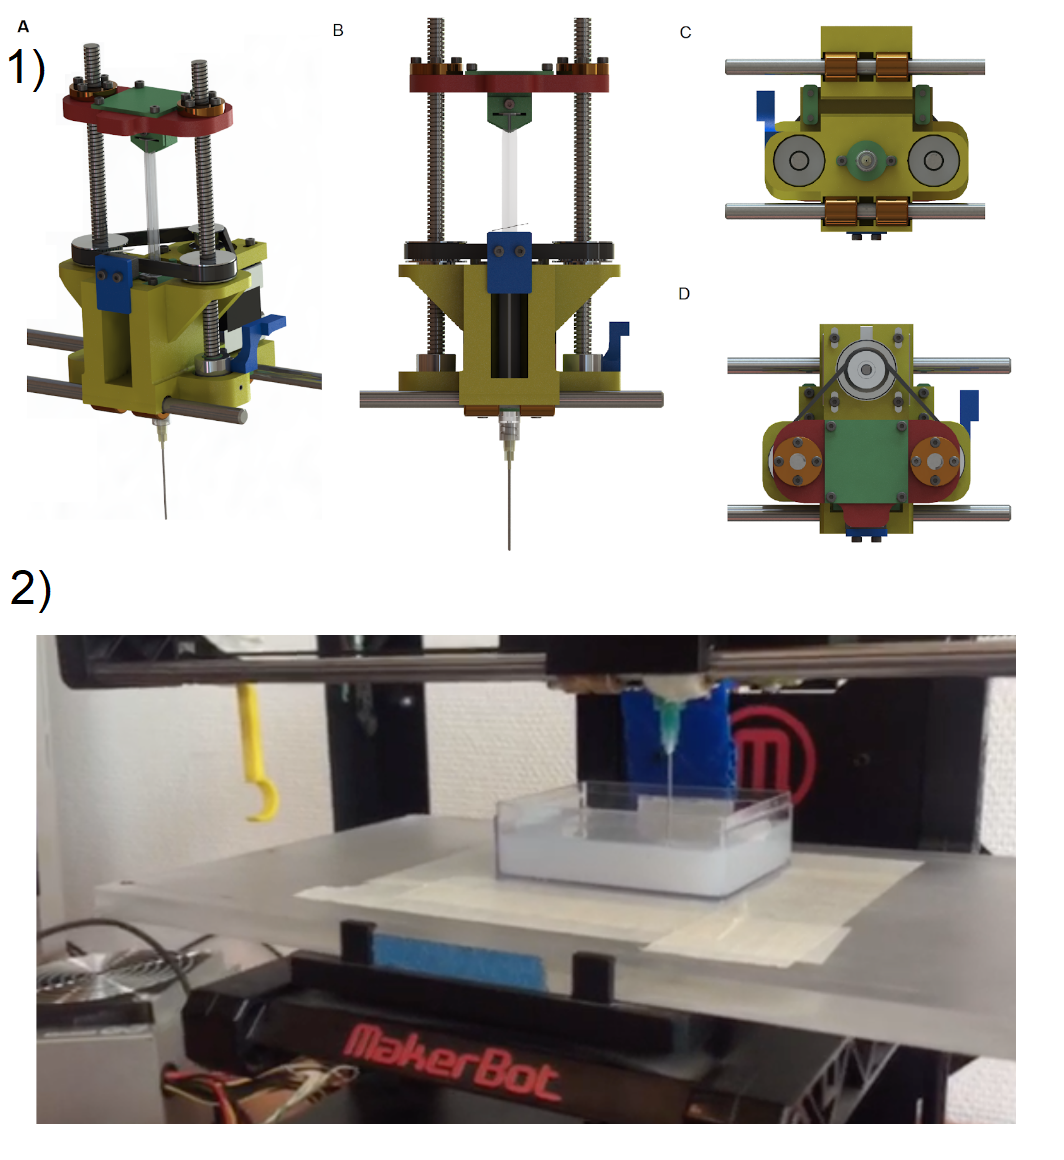
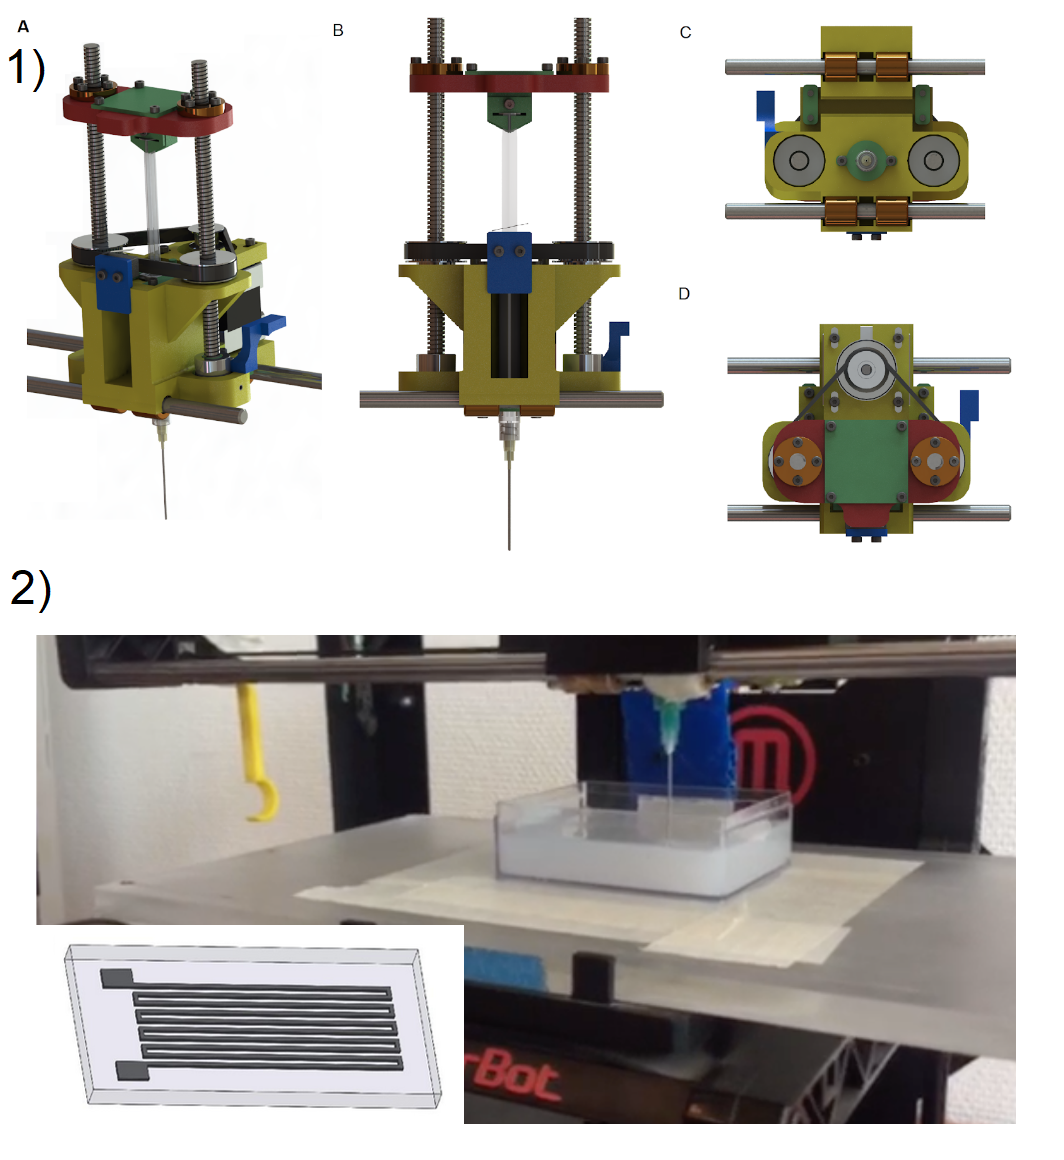
updating portfolio

Changed region(s): [[0.031, 0.7759, 0.4342, 0.9931]]

diff --git a/_pages/portfolio.md b/_pages/portfolio.md
@@ -1,88 +1,96 @@
 ---
+
 layout: archive
 title: "Projects"
 permalink: /portfolio/
 author_profile: true
+
 ---
 
-Last update: December, 2022
+Last update: September, 2024
+
+This is a compilation of projects that I think are worth to mention. Some of the links will take you to other pages in this site, while others will lead you to Github, Grabcad or Instagram.
 
 # Personal projects
 
-Projects that i have been developing in my house at my free time. 
+Projects that I have been developing in my house at my free time. 
 
-1. [N20 Robot project](https://github.com/jkugalde/Pochitabot)
-2. [N20 Servo Module](https://github.com/jkugalde/N20-Servo-Module) 
-3. [3DP SCARA Arm](https://github.com/jkugalde/SCARA-3DP)
-4. [T-Slot Workbench](https://jkugalde.github.io/portfolio/tslottable/)
-5. [Anet A8 upgrade](https://jkugalde.github.io/portfolio/aneta8upgrade/)
-6. [Original FDM 3D printer](https://jkugalde.github.io/portfolio/jkprinter/)
-7. [3DP vise](https://jkugalde.github.io/portfolio/3dp-vise/)
-8. [3DP lamp](https://jkugalde.github.io/portfolio/3dplamp/)
+### 1. [N20 Quadruped robot project](https://github.com/jkugalde/Pochitabot)
 
-<img src="/images/personal.png" width="750">
+<img src ="https://i.imgur.com/XjRepFi.jpeg" width="600">
 
-# Projects developed at the Robotics Lab
+### 2. [3DP SCARA Arm](https://github.com/jkugalde/SCARA-3DP)
 
-These are the main projects in which i work during my time as R.A in the robotics lab of the mechanical engineering department at the University of Chile.
+<img src ="https://i.imgur.com/l6rDe6A.png" width="400">
 
-1. [Closed loop soft robot worm](https://github.com/jkugalde/SoftWorm)
-2. [Open loop soft robot worm](https://www.researchgate.net/publication/311101877_Design_Fabrication_and_Control_of_a_Multi-Material-Multi-Actuator_Soft_Robot_Inspired_by_Burrowing_Worms)
-3. [Soft modular robots](https://jkugalde.github.io/portfolio/softmodularrobots/)
-4. [Soft sensor printer](https://jkugalde.github.io/portfolio/softprinter/)
+### 3. [Anet A8 Marlinification](https://jkugalde.github.io/portfolio/aneta8upgrade/)
 
-<img src="/images/medlab.png" width="750">
+<img src ="https://i.imgur.com/2vLRb1v.png" width="550">
+
+# Soft robotics at the University of Chile
+
+These are the main projects in which I work, mostly during my time as R.A in the robotics lab in mechanical engineering department at the University of Chile. 
+
+### 1. [Soft robot worm](https://github.com/jkugalde/SoftWorm)
+
+<img src ="https://i.imgur.com/lJXCLit.png" width="550">
+
+### 2. [Soft modular robots](https://jkugalde.github.io/portfolio/softmodularrobots/)
+
+<img src ="https://i.imgur.com/KftGXuz.png)" width="350">
+
+### 3. [Liquid on liquid printer](https://jkugalde.github.io/portfolio/softprinter/)
+
+<img src ="https://i.imgur.com/NDDGl3u.png)" width="500">
 
 # Projects developed at Fablab U de Chile
 
-Projects that i have led at the Fablab U de Chile.
+(THIS SECTION IS IN CONSTRUCTION)
 
-1. [Biomixer](https://jkugalde.github.io/portfolio/biomixer/)
-2. [Rotocasting machine](https://jkugalde.github.io/portfolio/rotocaster/) 
-3. [Vacuum former](https://jkugalde.github.io/portfolio/vacuum-former/) 
-4. [B.AMBU, an emergency mechanical ventilator](https://jkugalde.github.io/portfolio/bambu/)
-5. [SILC (short impact load cell)](https://jkugalde.github.io/portfolio/silc/)
-6. [Biomonitor](https://jkugalde.github.io/portfolio/biomonitor/)
-7. [Video Laringoscope](https://jkugalde.github.io/portfolio/laringoscope/)
-8. [Paste Extruder](https://jkugalde.github.io/portfolio/pastextruder/)
-9. [Pellet extruder](https://jkugalde.github.io/portfolio/pellet/)
-10. [Rat restrainer](https://jkugalde.github.io/portfolio/ratres/)
-11. [Injector](https://jkugalde.github.io/portfolio/injector/)
+### 1. [Biomixer](https://jkugalde.github.io/portfolio/biomixer/)
+### 2. [Rotocasting machine](https://jkugalde.github.io/portfolio/rotocaster/) 
+### 3. [Vacuum former](https://jkugalde.github.io/portfolio/vacuum-former/) 
+### 4. [B.AMBU, an emergency mechanical ventilator](https://jkugalde.github.io/portfolio/bambu/)
+### 5. [SILC-a, rock impact testing machine](https://jkugalde.github.io/portfolio/silc/)
+### 6. [Biomonitor](https://jkugalde.github.io/portfolio/biomonitor/)
+### 7. [Video laringoscope](https://jkugalde.github.io/portfolio/laringoscope/)
+### 8. [Paste extruder](https://jkugalde.github.io/portfolio/pastextruder/)
+### 9. [Scaffolding for bone regenerating  implant](https://jkugalde.github.io/portfolio/pellet/)
+### 10. [Moulded parts for museum installation](https://jkugalde.github.io/portfolio/pellet/)
+
+
 12. [3DP Flow sensor](https://jkugalde.github.io/portfolio/flowi/)
 
-<img src="/images/fab.png" width="750">
+##### Minor devices
 
-Minor devices
+### 1. [Peristaltic pumps](https://jkugalde.github.io/portfolio/ppstep/) 
+### 2. [Powder dispensers](https://jkugalde.github.io/portfolio/powderdispenser/)
+### 3. [3DP electroacoustic levitator](https://jkugalde.github.io/portfolio/levitator/)
 
-1. [Peristaltic pump (stepper)](https://jkugalde.github.io/portfolio/ppstep/) 
-2. [Peristaltic pump (DC)](https://jkugalde.github.io/portfolio/ppdc/) 
-3. [Powder dispenser](https://jkugalde.github.io/portfolio/powderdispenser/)
 
-<img src="/images/devs.png" width="750">
-
-# Collaborations and supporting
-
-Documented projects i supported.
-
-1. [Metarpillar](https://www.sciencedirect.com/science/article/pii/S0264127521008406)
-2. [Soft modular robotics cubes](https://www.researchgate.net/publication/312121627_Soft_Modular_Robotic_Cubes_Toward_Replicating_Morphogenetic_Movements_of_the_Embryo)
-3. [3DP electroacoustic levitator](https://jkugalde.github.io/portfolio/levitator/)
-4. [Liquid on liquid printer](https://jkugalde.github.io/files/liquidprint.pdf)
-
-<img src="/images/colsup.png" width="750">
 
 # Freelance projects
 
-1. [SBF Robot cell](https://jkugalde.github.io/portfolio/sbf/)
-2. [Peristaltic pump for glue](https://jkugalde.github.io/portfolio/pglue/)
-3. [Automatic dispenser for pruning paste](https://jkugalde.github.io/portfolio/prune/)
+(THIS SECTION IS IN CONSTRUCTION)
 
-<img src="/images/frel.png" width="750">
+### 1. [SBF Robot cell](https://jkugalde.github.io/portfolio/sbf/)
+### 2. [Peristaltic pump for glue](https://jkugalde.github.io/portfolio/pglue/)
+### 3. [Automatic dispenser for pruning paste](https://jkugalde.github.io/portfolio/prune/)
 
-# Art
+# Digital craftmanship
 
-1. [Guitar vase](https://jkugalde.github.io/portfolio/vaseg/)
-2. [3DP Guitar capo](https://jkugalde.github.io/portfolio/3dpcapo/)
-3. [Kitsune mask](https://jkugalde.github.io/portfolio/mask/)
+### 1. [Guitar vase](https://jkugalde.github.io/portfolio/vaseg/)
 
-<img src="/images/art.png" width="750">
+<img src ="https://i.imgur.com/C1g62Bw.png" width="400">
+
+### 2. [3DP Guitar capo](https://jkugalde.github.io/portfolio/3dpcapo/)
+
+<img src ="https://i.imgur.com/TpreHJI.png" width="400">
+
+### 3. [Kitsune mask](https://jkugalde.github.io/portfolio/mask/)
+
+<img src ="https://i.imgur.com/nRH6E03.png" width="400">
+
+### 4. [Maracas llaneras](https://www.thingiverse.com/thing:6457595)
+
+<img src ="https://i.imgur.com/oKGwwFS.png" width="400">

diff --git a/_portfolio/quad.md b/_portfolio/quad.md
@@ -1,0 +1,42 @@
+---
+layout: archive
+title: "N20 quadurped robot project"
+excerpt: ""
+collection: portfolio
+author_profile: true
+---
+
+This project had several stages.
+
+### Jumping robot
+
+First, I wanted to make a cheap, small and "simple" legged robot. I had these N20 motors, which are pretty small, so the first step was to look for small sensors. I broke down some plastic servos to use their potentiometers. Then, I 3D printed [this](https://www.youtube.com/shorts/6vT5c4_hpZE) little guy.
+
+### Modular servo actuator
+
+As breaking down servo motors was not a good idea, I decided to use a small angle sensor (CJMCU-103). Instead of making a full body to integrate the motors, I decided to create a [module](https://github.com/jkugalde/N20-Servo-Module), which then I applied in another [jumping robot](https://github.com/jkugalde/Jumping-robot).
+
+### Modular series elastic actuator I
+
+I knew that for a smooth walking certain compliancy is needed, so I put a torsional spring at the output of the shaft in the module. Also, I included another angle sensor (so there is one in the input and another in the ouput, because if the spring is characterized, the torsion may be measured and provide a nice input for a more refined control. And so, the N20 series elastic actuator (SEA) was born. This first design was too weak (the printed spring broke easily), it was tested on a quadruped with 4 5-link legs, the (Pochitabot)[https://github.com/jkugalde/Pochitabot].
+
+There are some pictures and videos (HERE)[https://www.instagram.com/p/CnvOr4BjYhp/?igsh=cnA1MmIxdGFscnZx]. The drivers were damaged after some testings.
+
+### Modular series elastic actuator II
+
+I made some changes in the module, particularly on the spring shape, and got a [better version](https://github.com/jkugalde/N20-SEA-module). I also changed the leg design of the robot, using the modules in series. This was the new [quadruped](https://github.com/jkugalde/Quadruped) robot. It uses a better h-bridge as a driver. 
+
+The robot walked, but it was very inefficient. Some inputs were missing in the Arduino Mega to control all the modules, and the motors did not had enough torque to carry the weight. Probably because my N20s were not the originals from Pololu. 
+
+### Modular series elastic actuator III
+
+Finally, I repeated the process for a a [bigger motor](https://github.com/jkugalde/JGA25-370-SEA?tab=readme-ov-file))
+
+
+
+---
+
+
+
+
+

diff --git a/_portfolio/aneta8upgrade.md b/_portfolio/aneta8upgrade.md
@@ -1,18 +1,14 @@
 ---
 layout: archive
-title: "Anet A8 upgrade"
+title: "Anet A8 marlinification"
 excerpt: "sfdfdfdsfdd."
 collection: portfolio
 author_profile: true
 ---
 
-# Summary
+I had an Anet A8, it was the cheapest 3d printer in the market around the time that I bought it (2019) and served its purpose well enough, but now with the pandemic lockdown I have enough time to invest in some upgrades and some learning.
 
-I have an Anet A8, it was the cheapest 3d printer in the market around the time that i bought it (2019) and served its purpose well enough, but now with the pandemic lockdown i have enough time to invest in get some major upgrades done. 
-
-This is a work in progress and i currently have only modified the frame, from acrylic to aluminium. I am planning to change the controller to one of the latest with touch screen compatibility, to make and enclosure to reduce heat dissipation and noise and maybe modify the mechanical arrangement to a corexy or something like that.
-
-This is what i currently have:
+First, I dissasembled the chasis and make my own with aluminium extrusions, doing a cubed shape.
 
 <img src="/images/design.png" width="750">
 
@@ -207,13 +203,10 @@ Remember to level the bed. In my printer i also have a glass bed from an Ender3.
 
 <img src="/images/done.png" width="500">
 
-# Further work
+# Enclosing
 
-- Change the controller
-- Build the enclosure
-- Change the mechanical principle
+Finally, using some aluminium/foam sheets I enclosed the volume and replaced the controller with an Arduino MEGA/RAMPS combo. All those file are lost forever :c (in my old laptop), but I made a nice [video](https://www.youtube.com/watch?v=CzlXuUR0WlY) of the printer and there are some [pics](https://www.instagram.com/p/CFLckdcHANF/?igsh=MXFvcW15MXFoa3Fydg==) in my Instagram.
 
-With the current setting the usable printing area will 250x210 mm (X x Y) so it is a good idea to get a borosilicate glass bed to attach (remember to use only three bolts in the bed). There is a loss of Y space as i put the glass bed with metal clips, also because of the design, with other configuration you could get an extra 5-6 centimeters without the bed crashing into the enclosure.
 
 
 

diff --git a/_portfolio/softmodularrobots.md b/_portfolio/softmodularrobots.md
@@ -6,27 +6,9 @@ collection: portfolio
 author_profile: true
 ---
 
-## Summary
-
 This was my main project working as R.A in the robotics lab in the department of mechanical engineering at the University of Chile. It was a continuation of this [investigation](https://www.researchgate.net/publication/312121627_Soft_Modular_Robotic_Cubes_Toward_Replicating_Morphogenetic_Movements_of_the_Embryo).
 
-The goal was to study the actuated behavior of multiple structures built with inflatable cubes made of silicone. Some of them were attached with magnets as a part of their body and others just glued togheter. I performed the following activities:
-
-- Develop a new design and fabrication process of modular soft cube, aiming to reduce fabrication time and increase quality.
-- Simulate different assemblies and actuation algorithms, using VoxCad.
-- Built a pneumatic control system.
-- Write a program with Arduino to control the robots.
-- Characterize the behaviour of the robots using a tracking device.
-
-I obtained interesting results, but dropped the project as i accepted another job. The data and findings remain unpublished.
-
-<img src="/images/fabpos.png" width="750">
-
-The fabrication process.
-
-<img src="/images/actt.png" width="400">
-
-The actuation module.
+I obtained interesting results, but dropped the project as I moved to another job. The data and findings remain unpublished.
 
 <img src="/images/movecub.png" width="750">
 
@@ -34,6 +16,9 @@ The actuation module.
 
 Two of the configurations, developing a crawling gait.
 
+A few years later, I provided an actuation and control system for a similar project, using elastomeric metamaterials for a worm like modular robot. [Here](https://www.sciencedirect.com/science/article/pii/S0264127521008406) it is the publication. 
+
+<img src="https://i.imgur.com/OlyOmnd.jpeg" width="750">
 
 
 

diff --git a/_portfolio/softprinter.md b/_portfolio/softprinter.md
@@ -1,22 +1,21 @@
 ---
 layout: archive
-title: "Soft sensor printer"
-excerpt: "Soft modular robots"
+title: "Liquid on liquid printer"
+excerpt: ""
 collection: portfolio
 author_profile: true
 ---
 
-## Summary
+I had to do this two times.
 
-The objective of the project was to print a soft sensor. We used two approaches for this: 1) A liquid in liquid printer that injects liquid metal in a silicone maxtrix 2) A 3d printed deformable and conductive path covered in silicone films.
+First time, the objective of the project was to print a soft sensor. I hacked a Makerbot with an Arduino/RAMPS combo and implementd a syringe pump. The syringe contained liquid metal and it was deposited in uncured silicone. 
 
-For the first approach, I hacked a Makerbot with an Arduino/RAMPS combo and implementd a syringe pump. 
+<img src="/images/printersil.png" width="550">
 
-<img src="/images/printersil.png" width="750">
+The second time, I had to make the same machine for a student that was dropping water inside a silicone matrix to generate a metamaterial. [Here](/files/liquidprint.pdf) is some info.
 
-For the second one, I designed a stretchable pattern and printed it using conductive PLA. Then, it was covered with silicone in a two step process.
+The machine was later used by another student to drop a ferromagnetic fluid into a silicone matrix.
 
-<img src="/images/stretch.png" width="400">
 
 
 

diff --git a/_portfolio/worms.md b/_portfolio/worms.md
@@ -1,0 +1,21 @@
+---
+layout: archive
+title: "WORMS"
+excerpt: ""
+collection: portfolio
+author_profile: true
+---
+
+This project had two parts. I work on it while doing my bachelor.
+
+First, the proof of concept for a worm like soft robot that crawls in confined space, using a open loop time controlled algorithm. It produced a [conference article](https://www.researchgate.net/publication/311101877_Design_Fabrication_and_Control_of_a_Multi-Material-Multi-Actuator_Soft_Robot_Inspired_by_Burrowing_Worms).
+
+Second, implementation of a closed loop control adding soft "tactile" sensors. This was my [thesis](https://repositorio.uchile.cl/handle/2250/146772) project for graduating from the bachelor, and also generated a [publication](https://www.researchgate.net/publication/332063464_An_earthworm-inspired_soft_robot_with_perceptive_artificial_skin/citations?latestCitations=PB%3A384282374). [Here](https://github.com/jkugalde/SoftWorm) is some code and a link to a video.
+
+
+---
+
+
+
+
+

diff --git a/_portfolio/3dpcapo.md b/_portfolio/3dpcapo.md
@@ -6,11 +6,9 @@ collection: portfolio
 author_profile: true
 ---
 
-## Summary
+I love playing guitar, but I did not liked capos until I found the spanish design. As a maker, I obviously tried to make one.
 
-I love playing guitar, but i do not like capos, until i found the spanish design. As a maker, i obviously tried to make one.
-
-It is 3d printed in wood-like filament, then sanded and painted. IT REALLY LOOKS LIKE WOOD, i am very satisfied with it.
+It is 3d printed in wood-like filament, then sanded and painted. IT REALLY LOOKS LIKE WOOD, I am very satisfied with it.
 
 <img src="/images/caps.png" width="700">
 

diff --git a/_portfolio/mask.md b/_portfolio/mask.md
@@ -6,11 +6,13 @@ collection: portfolio
 author_profile: true
 ---
 
-## Summary
-
 I made this with [Teresa Valdes](https://www.instagram.com/t.luz._/?hl=es), my girlfriend at that time. We printed three pieces from [this](https://www.thingiverse.com/thing:3713628) design, then glued, put some putty all over it, sanded, prime it, and finally painted it. It was a lot of effort but totally worth it.
 
 <img src="/images/maskpics.png" width="750">
+
+[Here](https://www.instagram.com/p/CQZx2-Hr9y2/?igsh=dXA0OWd1a2RvN2J1) I have more pics of the process.
+
+
 
 
 

diff --git a/_portfolio/vaseg.md b/_portfolio/vaseg.md
@@ -6,13 +6,11 @@ collection: portfolio
 author_profile: true
 ---
 
-## Summary
-
 A 3d printed vase, guitar shaped, originaly meant to put plants in it. The wooden look was obtained after sanding and painting.
 
 <img src="/images/vasepic.png" width="300">
 
-More pics in [this](https://www.instagram.com/p/CFqGc7onwIx/?hl=es) IG post.
+More pics in [this](https://www.instagram.com/p/CFqGc7onwIx/?hl=es) IG post. The printable files are [HERE](https://www.thingiverse.com/thing:4612938).
 
 
 
